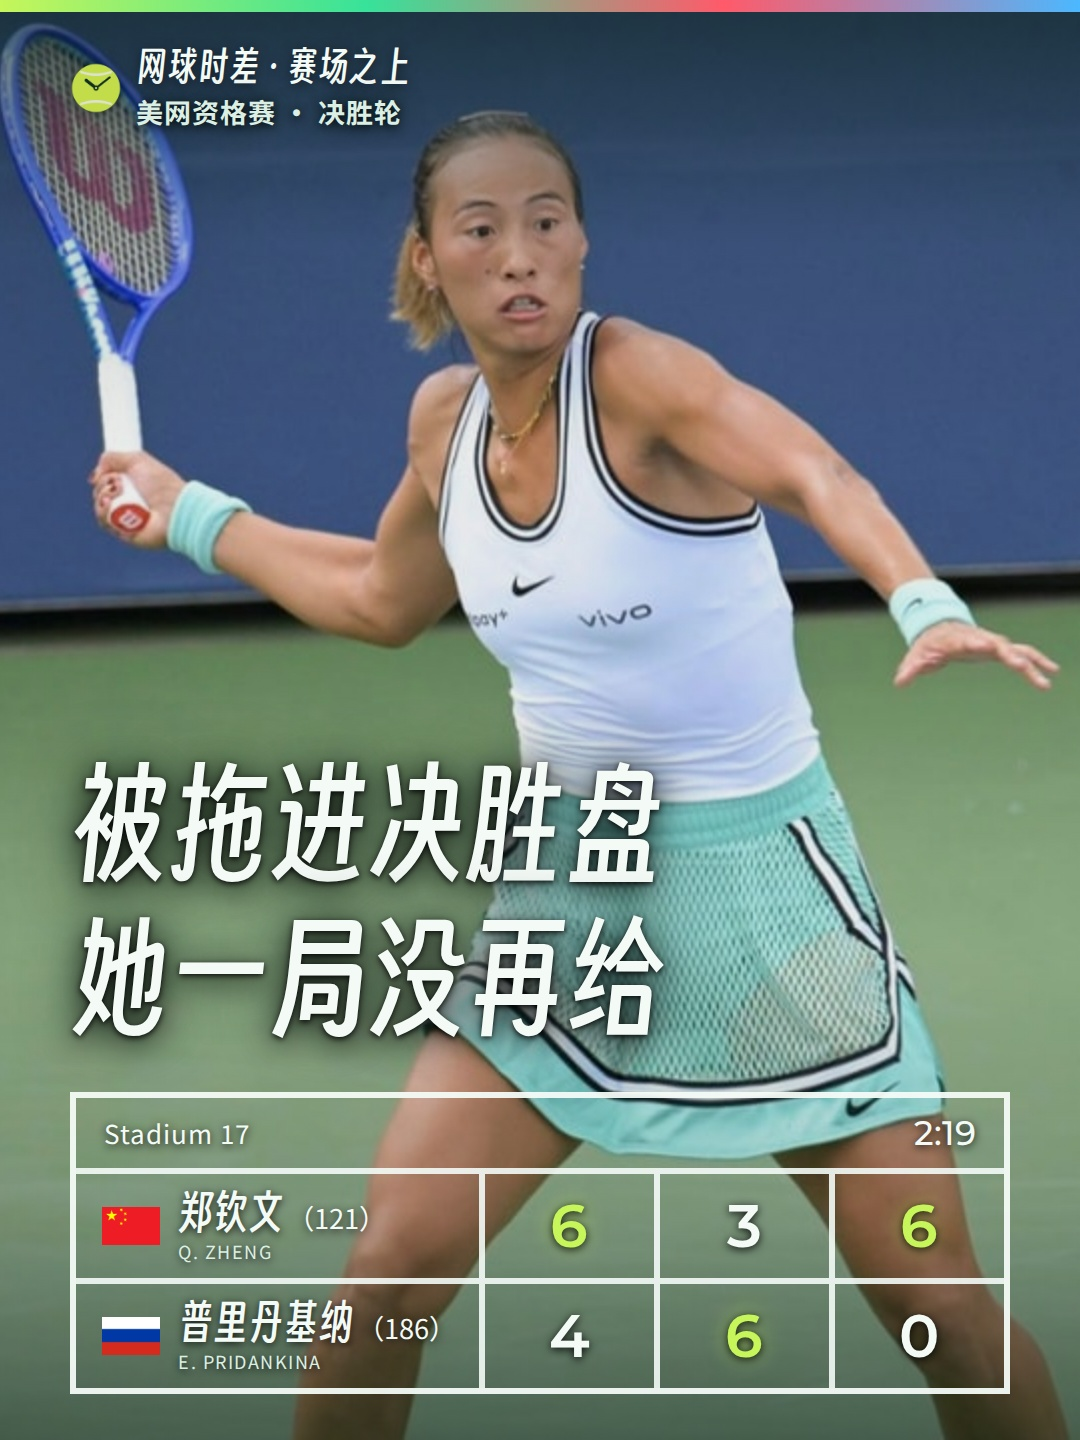
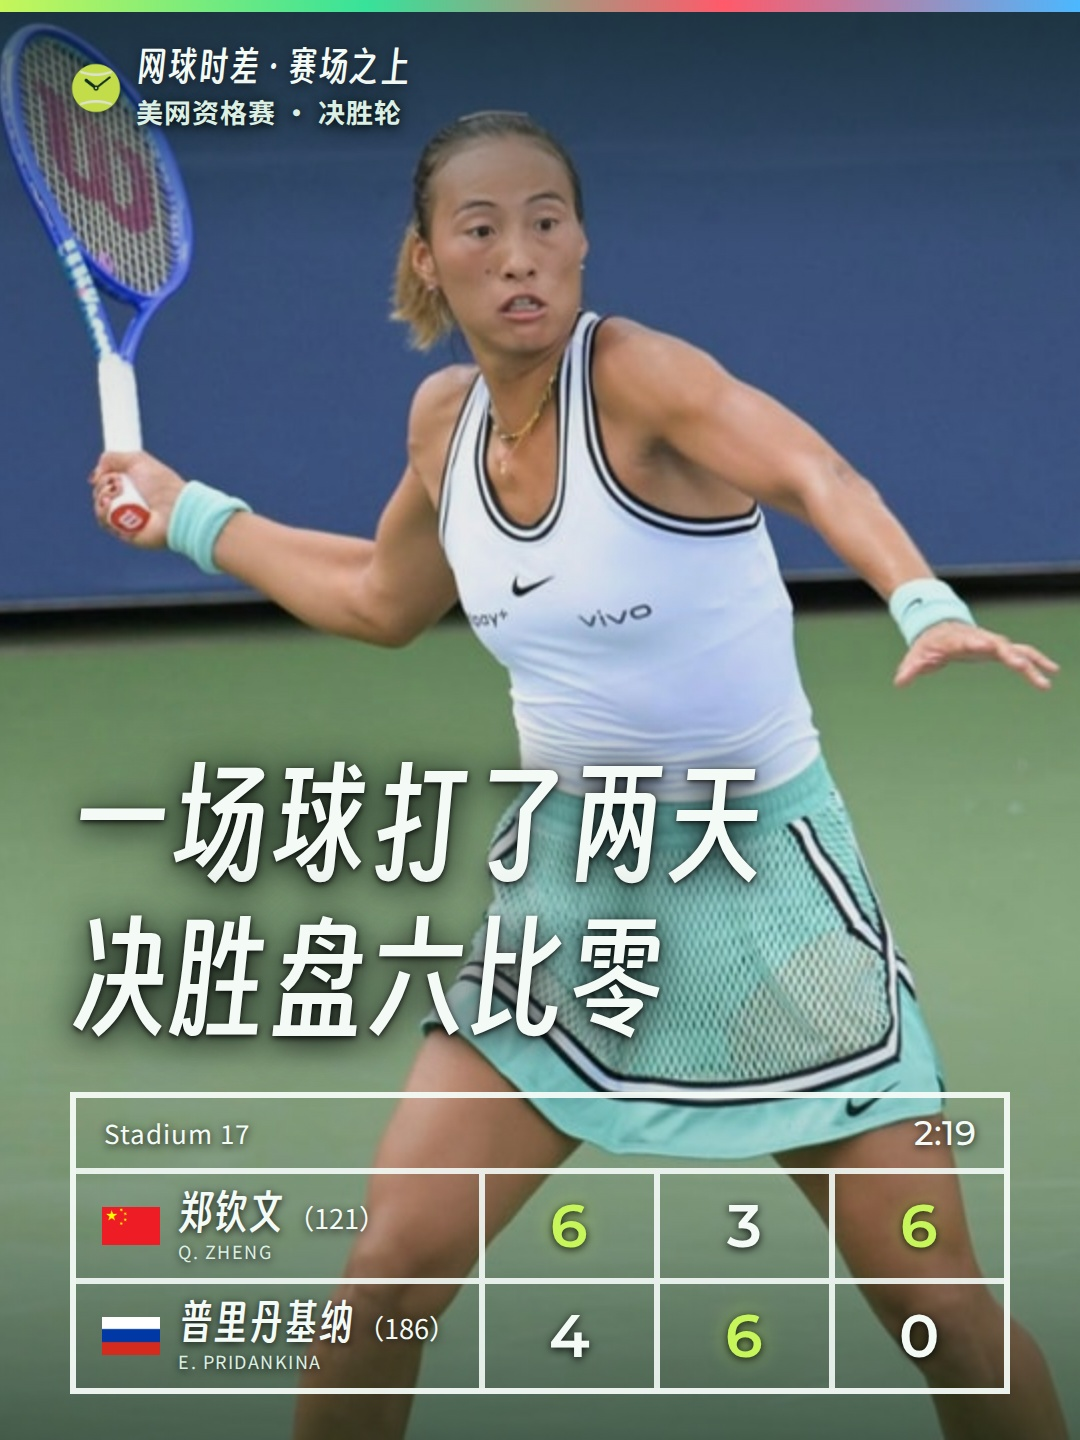
reel: render zheng-pridankina-us-open-2026-q3

Changed region(s): [[0.0611, 0.5, 0.7333, 0.75]]

diff --git a/output/2026-08-29/reel/zheng-pridankina-us-open-2026-q3/copy.html b/output/2026-08-29/reel/zheng-pridankina-us-open-2026-q3/copy.html
@@ -46,11 +46,11 @@
     </section>
     <section>
       <div class="label"><span>正文</span><button type="button" data-copy="body">复制正文</button></div>
-      <textarea id="body" readonly>被拖进决胜盘，她一局没再给🎾
+      <textarea id="body" readonly>一场球打了两天，决胜盘六比零🎾
 
 郑钦文6-4、3-6、6-0击败普里丹基纳，重返美网正赛。
 
-这场资格赛决胜轮被一场大雨切成了两天：北京时间周四深夜开打，首盘6-4拿下；第二盘2-5落后时，比赛被大雨中断，一停就是一整夜。隔天回来，20岁的普里丹基纳顶住把这一盘收走——她前两轮一盘没丢，这股冲劲是真的。
+这场资格赛决胜轮被大雨切得支离破碎：开赛推迟近一小时，北京时间周四深夜才开打；首盘6-4拿下后，第二盘接连两度被雨打断——2-5落后时第二次中断，一停就是一整夜。隔天回来，20岁的普里丹基纳顶住把这一盘收走——她前两轮一盘没丢，这股冲劲是真的。
 
 决胜盘是全场最好的回答。6-0听起来像横扫，其实打了36分钟：第二局缠过三次平分，第二个破发点才砸穿；第三局自己30-40落后，她直接上网把破发点掐掉；单盘四个破发点兑现三个，总分28-14。整场她的一发进球率只有44%，但一发落区后的得分率是82%，平均时速176公里——这就是她最硬的底牌。
 
